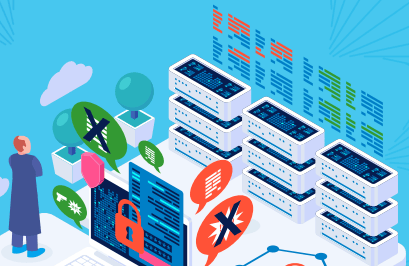
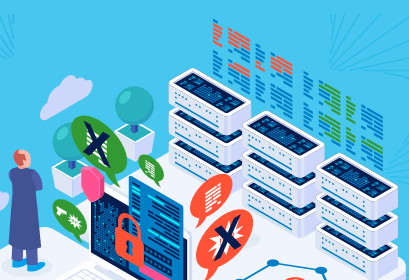
Update images and adjust card aspect ratios
Replace several image assets in src/lib/assets and static/assets with updated versions, and update the image aspect ratio classes in src/routes/+page.svelte to match the new asset dimensions. Changes include: resources & dos-and-donts aspect 387/191 -> 395/238; policy-manual-2022 & conference-2025 aspect 387/191 -> 387/230; policy manual & expedition cards aspect 387/191 -> 409/280. These changes ensure images render with correct proportions in the HomeGlossaryBox components.

diff --git a/src/routes/+page.svelte b/src/routes/+page.svelte
@@ -94,7 +94,7 @@
         <HomeGlossaryBox title="Resources" href={`${base}/resources`}>
           <img
             slot="image"
-            class="w-full aspect-[387/191] rounded-xl object-cover"
+            class="w-full aspect-[395/238] rounded-xl object-cover"
             src={resourcesImage}
             alt="Resources"
           />
@@ -107,7 +107,7 @@
         <HomeGlossaryBox title="Do’s and Don’ts" href={`${base}/dos-and-donts`}>
           <img
             slot="image"
-            class="w-full aspect-[387/191] rounded-xl object-cover"
+            class="w-full aspect-[395/238] rounded-xl object-cover"
             src={dosAndDontsImage}
             alt="Do's and Dont's"
           />
@@ -123,7 +123,7 @@
         >
           <img
             slot="image"
-            class="w-full aspect-[387/191] rounded-xl object-cover"
+            class="w-full aspect-[387/230] rounded-xl object-cover"
             src={policyManualImage2025}
             alt="Policy Manual on Safeguarding Media Freedom in the Age of Big Tech Platforms and AI (2025)"
           />
@@ -140,7 +140,7 @@
         >
           <img
             slot="image"
-            class="w-full aspect-[387/191] rounded-xl object-cover"
+            class="w-full aspect-[387/230] rounded-xl object-cover"
             src={conferenceImage2025}
             alt="Conference on “Healthy Online Information Spaces: From Policy Guidance to Pathways Forward”"
           />
@@ -157,7 +157,7 @@
         >
           <img
             slot="image"
-            class="w-full aspect-[387/191] rounded-xl object-cover"
+            class="w-full aspect-[409/280] rounded-xl object-cover"
             src={policyManualImage}
             alt="Policy Manual"
           />
@@ -170,7 +170,7 @@
         <HomeGlossaryBox title="SAIFE Expedition" href={`${base}/expedition`}>
           <img
             slot="image"
-            class="w-full aspect-[387/191] rounded-xl object-cover"
+            class="w-full aspect-[409/280] rounded-xl object-cover"
             src={expeditionImage}
             alt="SAIFE Expedition"
           />
